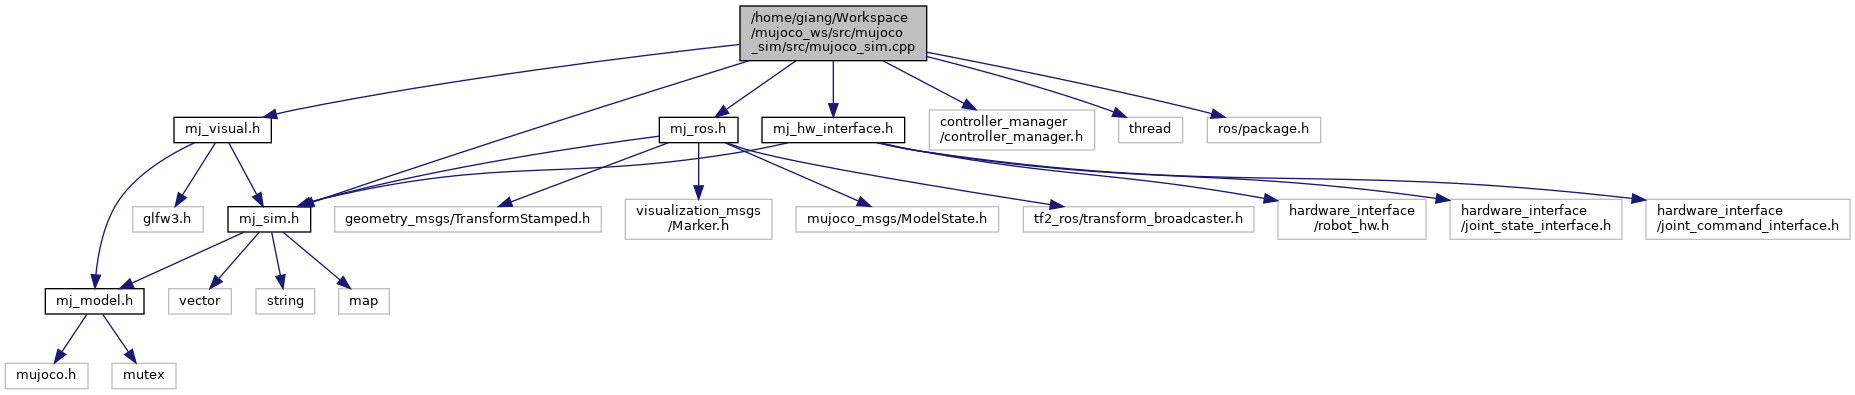
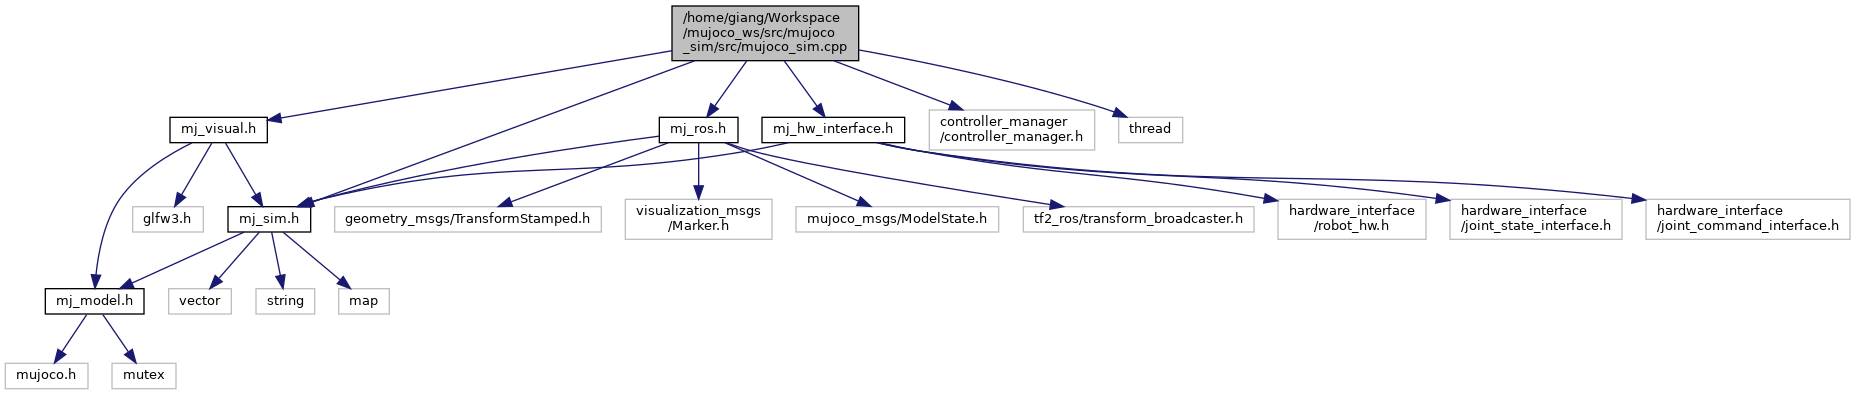
Fix docs

diff --git a/docs/html/mujoco__sim_8cpp.html b/docs/html/mujoco__sim_8cpp.html
@@ -79,20 +79,18 @@ $(function() {
 <code>#include &quot;<a class="el" href="mj__hw__interface_8h_source.html">mj_hw_interface.h</a>&quot;</code><br />
 <code>#include &lt;controller_manager/controller_manager.h&gt;</code><br />
 <code>#include &lt;thread&gt;</code><br />
-<code>#include &lt;ros/package.h&gt;</code><br />
 </div><div class="textblock"><div class="dynheader">
 Include dependency graph for mujoco_sim.cpp:</div>
 <div class="dyncontent">
 <div class="center"><img src="mujoco__sim_8cpp__incl.png" border="0" usemap="#_2home_2giang_2Workspace_2mujoco__ws_2src_2mujoco__sim_2src_2mujoco__sim_8cpp" alt=""/></div>
 <map name="_2home_2giang_2Workspace_2mujoco__ws_2src_2mujoco__sim_2src_2mujoco__sim_8cpp" id="_2home_2giang_2Workspace_2mujoco__ws_2src_2mujoco__sim_2src_2mujoco__sim_8cpp">
-<area shape="rect" title=" " alt="" coords="740,5,927,61"/>
+<area shape="rect" title=" " alt="" coords="672,5,859,61"/>
 <area shape="rect" href="mj__sim_8h.html" title=" " alt="" coords="228,206,311,233"/>
-<area shape="rect" href="mj__visual_8h.html" title=" " alt="" coords="174,117,271,143"/>
+<area shape="rect" href="mj__visual_8h.html" title=" " alt="" coords="170,117,267,143"/>
 <area shape="rect" href="mj__ros_8h.html" title=" " alt="" coords="659,117,738,143"/>
 <area shape="rect" href="mj__hw__interface_8h.html" title=" " alt="" coords="762,117,905,143"/>
 <area shape="rect" title=" " alt="" coords="929,109,1095,151"/>
 <area shape="rect" title=" " alt="" coords="1119,117,1183,143"/>
-<area shape="rect" title=" " alt="" coords="1207,117,1321,143"/>
 <area shape="rect" href="mj__model_8h.html" title=" " alt="" coords="45,288,144,315"/>
 <area shape="rect" title=" " alt="" coords="169,288,231,315"/>
 <area shape="rect" title=" " alt="" coords="256,288,315,315"/>

diff --git a/docs/html/mujoco__sim__headless_8cpp.html b/docs/html/mujoco__sim__headless_8cpp.html
@@ -78,19 +78,17 @@ $(function() {
 <code>#include &quot;<a class="el" href="mj__hw__interface_8h_source.html">mj_hw_interface.h</a>&quot;</code><br />
 <code>#include &lt;controller_manager/controller_manager.h&gt;</code><br />
 <code>#include &lt;thread&gt;</code><br />
-<code>#include &lt;ros/package.h&gt;</code><br />
 </div><div class="textblock"><div class="dynheader">
 Include dependency graph for mujoco_sim_headless.cpp:</div>
 <div class="dyncontent">
 <div class="center"><img src="mujoco__sim__headless_8cpp__incl.png" border="0" usemap="#_2home_2giang_2Workspace_2mujoco__ws_2src_2mujoco__sim_2src_2mujoco__sim__headless_8cpp" alt=""/></div>
 <map name="_2home_2giang_2Workspace_2mujoco__ws_2src_2mujoco__sim_2src_2mujoco__sim__headless_8cpp" id="_2home_2giang_2Workspace_2mujoco__ws_2src_2mujoco__sim_2src_2mujoco__sim__headless_8cpp">
-<area shape="rect" title=" " alt="" coords="1108,5,1359,61"/>
+<area shape="rect" title=" " alt="" coords="1019,5,1269,61"/>
 <area shape="rect" href="mj__sim_8h.html" title=" " alt="" coords="949,206,1032,233"/>
 <area shape="rect" href="mj__ros_8h.html" title=" " alt="" coords="650,117,729,143"/>
 <area shape="rect" href="mj__hw__interface_8h.html" title=" " alt="" coords="1073,117,1215,143"/>
 <area shape="rect" title=" " alt="" coords="1240,109,1405,151"/>
 <area shape="rect" title=" " alt="" coords="1429,117,1493,143"/>
-<area shape="rect" title=" " alt="" coords="1518,117,1631,143"/>
 <area shape="rect" href="mj__model_8h.html" title=" " alt="" coords="793,288,892,315"/>
 <area shape="rect" title=" " alt="" coords="917,288,979,315"/>
 <area shape="rect" title=" " alt="" coords="1004,288,1063,315"/>

diff --git a/src/mujoco_sim.cpp b/src/mujoco_sim.cpp
@@ -8,7 +8,6 @@
 #include "mj_hw_interface.h"
 #include <controller_manager/controller_manager.h>
 #include <thread>
-#include <ros/package.h>
 
 static MjSim mj_sim;
 #ifdef VISUAL

diff --git a/src/mujoco_sim_headless.cpp b/src/mujoco_sim_headless.cpp
@@ -6,7 +6,6 @@
 #include "mj_hw_interface.h"
 #include <controller_manager/controller_manager.h>
 #include <thread>
-#include <ros/package.h>
 
 static MjSim mj_sim;
 #ifdef VISUAL
